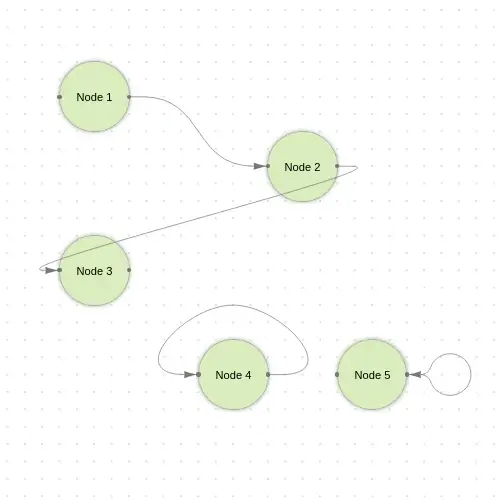
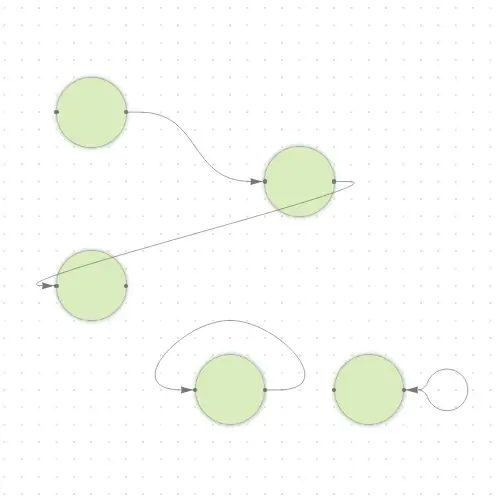
updated previews

diff --git a/static/use-cases/vertical-edge/index.html b/static/use-cases/vertical-edge/index.html
@@ -85,7 +85,6 @@
           this.canvas
             .addNode(
               this.createNode({
-                name: "Node 1",
                 x: 200,
                 y: 100,
                 frontPortId: "node-1-in",
@@ -94,7 +93,6 @@
             )
             .addNode(
               this.createNode({
-                name: "Node 2",
                 x: 600,
                 y: 300,
                 frontPortId: "node-2-in",
@@ -103,7 +101,6 @@
             )
             .addNode(
               this.createNode({
-                name: "Node 3",
                 x: 200,
                 y: 350,
                 frontPortId: "node-3-in",
@@ -112,7 +109,6 @@
             )
             .addNode(
               this.createNode({
-                name: "Node 4",
                 x: 400,
                 y: 500,
                 frontPortId: "node-4-in",
@@ -121,7 +117,6 @@
             )
             .addNode(
               this.createNode({
-                name: "Node 5",
                 x: 600,
                 y: 500,
                 frontPortId: "node-5-in",
@@ -135,19 +130,16 @@
             .focus();
         }
 
-        createNode({ name, x, y, frontPortId, backPortId }) {
+        createNode({ x, y, frontPortId, backPortId }) {
           const node = document.createElement("div");
-          const text = document.createElement("div");
           const frontPort = document.createElement("div");
           const backPort = document.createElement("div");
 
           node.classList.add("node");
           frontPort.classList.add("node-port");
           backPort.classList.add("node-port");
-          text.innerText = name;
 
           node.appendChild(frontPort);
-          node.appendChild(text);
           node.appendChild(backPort);
 
           return {

diff --git a/static/use-cases/horizontal-edge/index.html b/static/use-cases/horizontal-edge/index.html
@@ -81,7 +81,6 @@
           this.canvas
             .addNode(
               this.createNode({
-                name: "Node 1",
                 x: 200,
                 y: 100,
                 frontPortId: "node-1-in",
@@ -90,7 +89,6 @@
             )
             .addNode(
               this.createNode({
-                name: "Node 2",
                 x: 500,
                 y: 200,
                 frontPortId: "node-2-in",
@@ -99,7 +97,6 @@
             )
             .addNode(
               this.createNode({
-                name: "Node 3",
                 x: 200,
                 y: 350,
                 frontPortId: "node-3-in",
@@ -108,7 +105,6 @@
             )
             .addNode(
               this.createNode({
-                name: "Node 4",
                 x: 400,
                 y: 500,
                 frontPortId: "node-4-in",
@@ -117,7 +113,6 @@
             )
             .addNode(
               this.createNode({
-                name: "Node 5",
                 x: 600,
                 y: 500,
                 frontPortId: "node-5-in",
@@ -131,19 +126,16 @@
             .focus();
         }
 
-        createNode({ name, x, y, frontPortId, backPortId }) {
+        createNode({ x, y, frontPortId, backPortId }) {
           const node = document.createElement("div");
-          const text = document.createElement("div");
           const frontPort = document.createElement("div");
           const backPort = document.createElement("div");
 
           node.classList.add("node");
           frontPort.classList.add("node-port");
           backPort.classList.add("node-port");
-          text.innerText = name;
 
           node.appendChild(frontPort);
-          node.appendChild(text);
           node.appendChild(backPort);
 
           return {

diff --git a/static/use-cases/straight-edge/index.html b/static/use-cases/straight-edge/index.html
@@ -81,7 +81,6 @@
           this.canvas
             .addNode(
               this.createNode({
-                name: "Node 1",
                 x: 200,
                 y: 100,
                 frontPortId: "node-1-in",
@@ -90,7 +89,6 @@
             )
             .addNode(
               this.createNode({
-                name: "Node 2",
                 x: 500,
                 y: 200,
                 frontPortId: "node-2-in",
@@ -99,7 +97,6 @@
             )
             .addNode(
               this.createNode({
-                name: "Node 3",
                 x: 200,
                 y: 350,
                 frontPortId: "node-3-in",
@@ -108,7 +105,6 @@
             )
             .addNode(
               this.createNode({
-                name: "Node 4",
                 x: 400,
                 y: 500,
                 frontPortId: "node-4-in",
@@ -117,7 +113,6 @@
             )
             .addNode(
               this.createNode({
-                name: "Node 5",
                 x: 600,
                 y: 500,
                 frontPortId: "node-5-in",
@@ -131,19 +126,16 @@
             .focus();
         }
 
-        createNode({ name, x, y, frontPortId, backPortId }) {
+        createNode({ x, y, frontPortId, backPortId }) {
           const node = document.createElement("div");
-          const text = document.createElement("div");
           const frontPort = document.createElement("div");
           const backPort = document.createElement("div");
 
           node.classList.add("node");
           frontPort.classList.add("node-port");
           backPort.classList.add("node-port");
-          text.innerText = name;
 
           node.appendChild(frontPort);
-          node.appendChild(text);
           node.appendChild(backPort);
 
           return {

diff --git a/static/use-cases/bezier-edge/index.html b/static/use-cases/bezier-edge/index.html
@@ -80,7 +80,6 @@
           this.canvas
             .addNode(
               this.createNode({
-                name: "Node 1",
                 x: 200,
                 y: 100,
                 frontPortId: "node-1-in",
@@ -89,7 +88,6 @@
             )
             .addNode(
               this.createNode({
-                name: "Node 2",
                 x: 500,
                 y: 200,
                 frontPortId: "node-2-in",
@@ -98,7 +96,6 @@
             )
             .addNode(
               this.createNode({
-                name: "Node 3",
                 x: 200,
                 y: 350,
                 frontPortId: "node-3-in",
@@ -107,7 +104,6 @@
             )
             .addNode(
               this.createNode({
-                name: "Node 4",
                 x: 400,
                 y: 500,
                 frontPortId: "node-4-in",
@@ -116,7 +112,6 @@
             )
             .addNode(
               this.createNode({
-                name: "Node 5",
                 x: 600,
                 y: 500,
                 frontPortId: "node-5-in",
@@ -133,17 +128,14 @@
 
         createNode({ name, x, y, frontPortId, backPortId }) {
           const node = document.createElement("div");
-          const text = document.createElement("div");
           const frontPort = document.createElement("div");
           const backPort = document.createElement("div");
 
           node.classList.add("node");
           frontPort.classList.add("node-port");
           backPort.classList.add("node-port");
-          text.innerText = name;
 
           node.appendChild(frontPort);
-          node.appendChild(text);
           node.appendChild(backPort);
 
           return {
